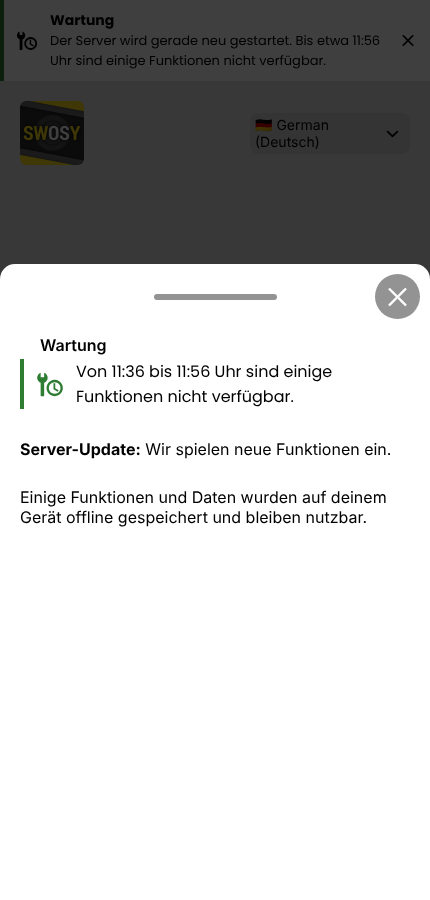
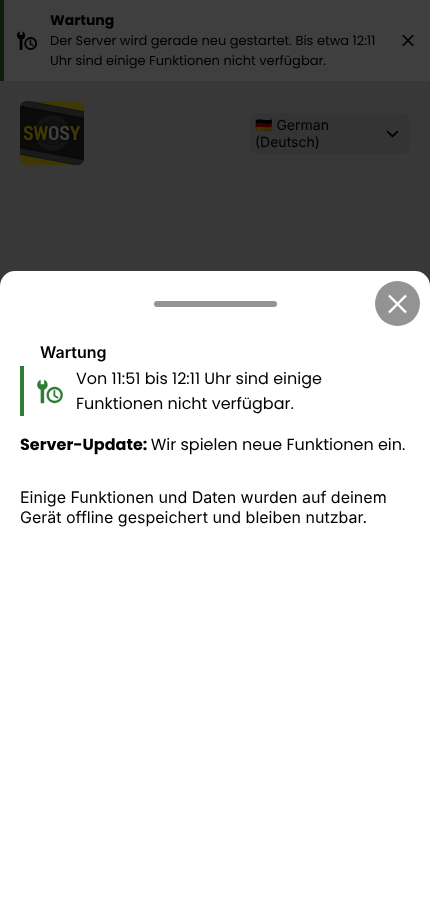
feat(app): maintenance modal shows "Server-Update: Wir spielen neue Funktionen ein."
A fixed line between the time span and app_settings.maintenance_message
(new keys maintenance_server_update_title/_text, all languages), screenshots
updated.

Claude-Session: https://claude.ai/code/session_012brHTFBjTETm5K4nvcpcze

Changed region(s): [[0.0605, 0.3733, 0.9372, 0.5289], [0.0, 0.28, 1.0, 0.3733], [0.8465, 0.0311, 0.8767, 0.0622]]

diff --git a/apps/frontend/app/components/MaintenanceModal/index.tsx b/apps/frontend/app/components/MaintenanceModal/index.tsx
@@ -38,6 +38,10 @@ const MaintenanceModalContent: React.FC<MaintenanceModalContentProps> = ({ notic
 				<MaterialCommunityIcons name="wrench-clock" size={28} color={primaryColor} />
 				<Text style={[styles.noticeText, { color: theme.screen.text }]}>{noticeText}</Text>
 			</View>
+			<Text style={[styles.updateText, { color: theme.screen.text }]}>
+				<Text style={styles.updateTitle}>{translate(TranslationKeys.maintenance_server_update_title)}: </Text>
+				{translate(TranslationKeys.maintenance_server_update_text)}
+			</Text>
 			{message ? <MyMarkdownProjectColored content={message} /> : null}
 		</View>
 	);
@@ -137,6 +141,13 @@ const styles = StyleSheet.create({
 		gap: 12,
 		borderLeftWidth: 4,
 		paddingLeft: 12,
+	},
+	updateText: {
+		fontSize: 16,
+		fontFamily: 'Poppins_400Regular',
+	},
+	updateTitle: {
+		fontFamily: 'Poppins_700Bold',
 	},
 	noticeText: {
 		flex: 1,

diff --git a/apps/frontend/app/config.ts b/apps/frontend/app/config.ts
@@ -258,7 +258,8 @@ export function getVersionPatch() {
         // 137: maintenance modal with app_settings.maintenance_message, shown on start and when the server looks down
         // 138: maintenance modal: project color side bar, offline hint when no own message is set
         // 139: maintenance modal: one line "from ... to ... some features unavailable", below only the own markdown text
-        return 139;
+        // 140: maintenance modal: "Server-Update: Wir spielen neue Funktionen ein." above the own text
+        return 140;
 }
 
 export function getVersionInternalForAppsettingsScreen() {

diff --git a/apps/frontend/app/locales/keys.ts b/apps/frontend/app/locales/keys.ts
@@ -118,6 +118,8 @@ export const TranslationKeys = {
 	maintenance_upcoming_notice: 'maintenance_upcoming_notice',
 	maintenance_active_notice: 'maintenance_active_notice',
 	maintenance_window_notice: 'maintenance_window_notice',
+	maintenance_server_update_title: 'maintenance_server_update_title',
+	maintenance_server_update_text: 'maintenance_server_update_text',
 	use_cached_version: 'use_cached_version',
 	foods: 'foods',
 	apartments: 'apartments',
